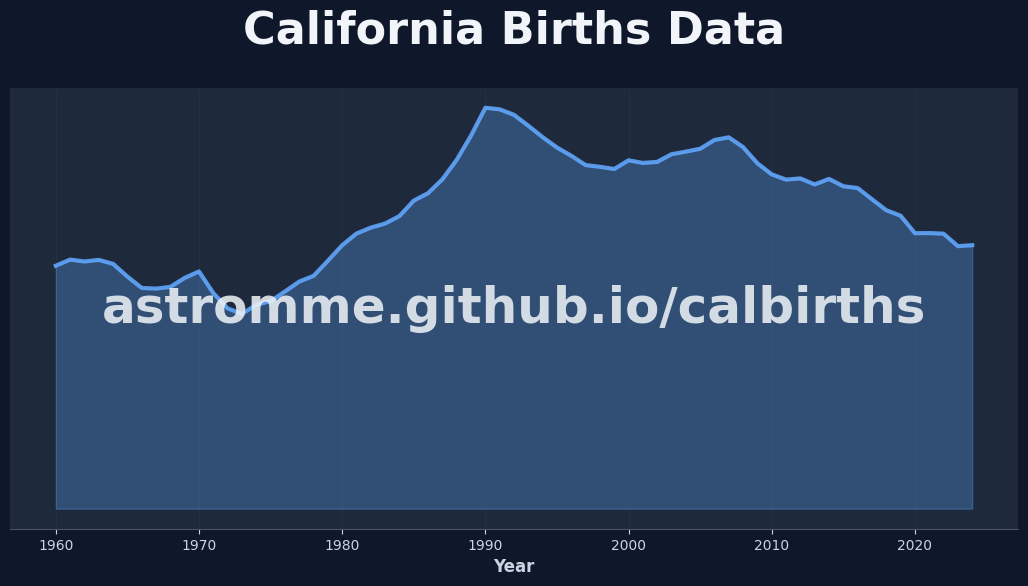
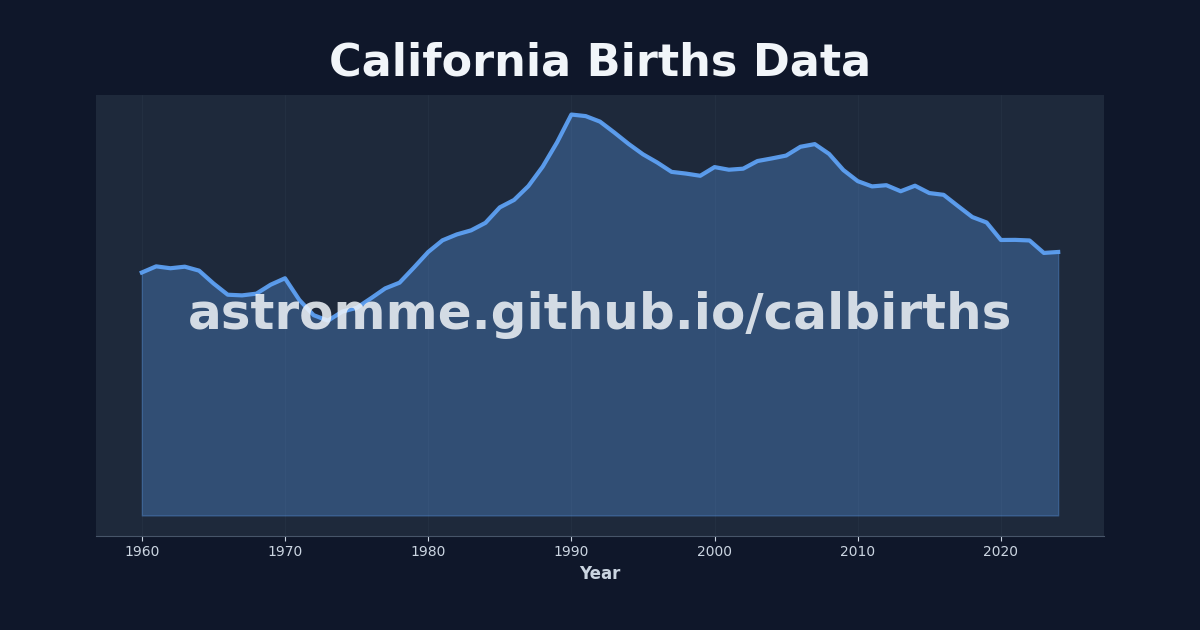
avoid cropping of social image

diff --git a/scripts/generate-social-image.py b/scripts/generate-social-image.py
@@ -78,8 +78,8 @@ def create_social_image(data_json_path, output_path):
     # Hide Y-axis labels and ticks
     ax.yaxis.set_visible(False)
 
-    # Add title at the top
-    title_y = 0.92
+    # Add title at the top with safe margin from edge
+    title_y = 0.88
 
     fig.text(0.5, title_y, 'California Births Data',
              ha='center', fontsize=32, color='#f1f5f9', fontweight='bold')
@@ -90,7 +90,7 @@ def create_social_image(data_json_path, output_path):
              fontweight='bold', alpha=0.85)
 
     # Save the image
-    plt.savefig(output_path, facecolor='#0f172a', dpi=DPI, bbox_inches='tight', pad_inches=0.1)
+    plt.savefig(output_path, facecolor='#0f172a', dpi=DPI, bbox_inches=None, pad_inches=0.3)
     plt.close()
 
     print(f"✓ Social sharing image created: {output_path}")
